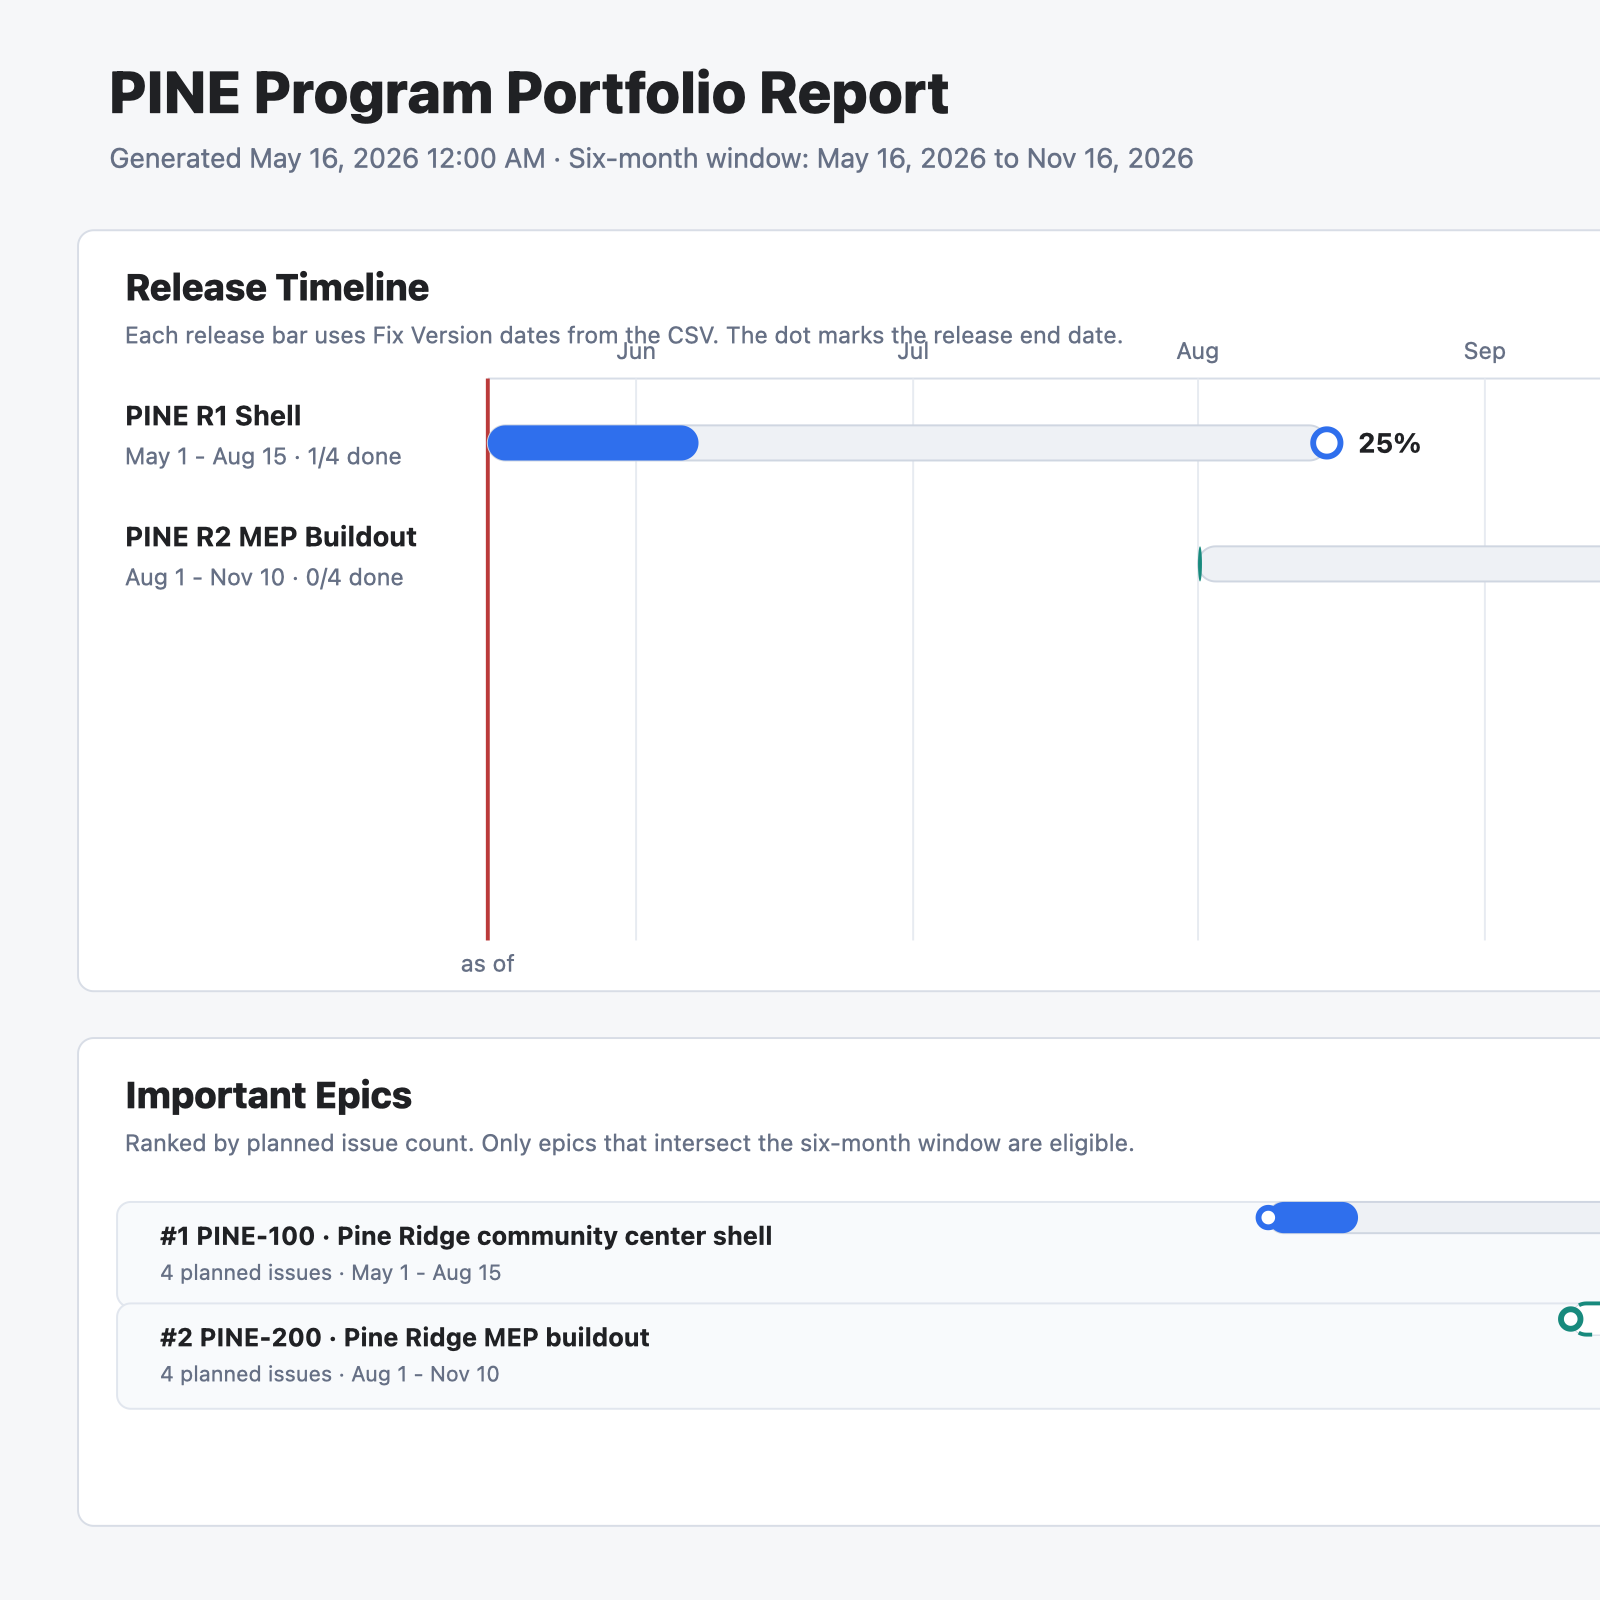
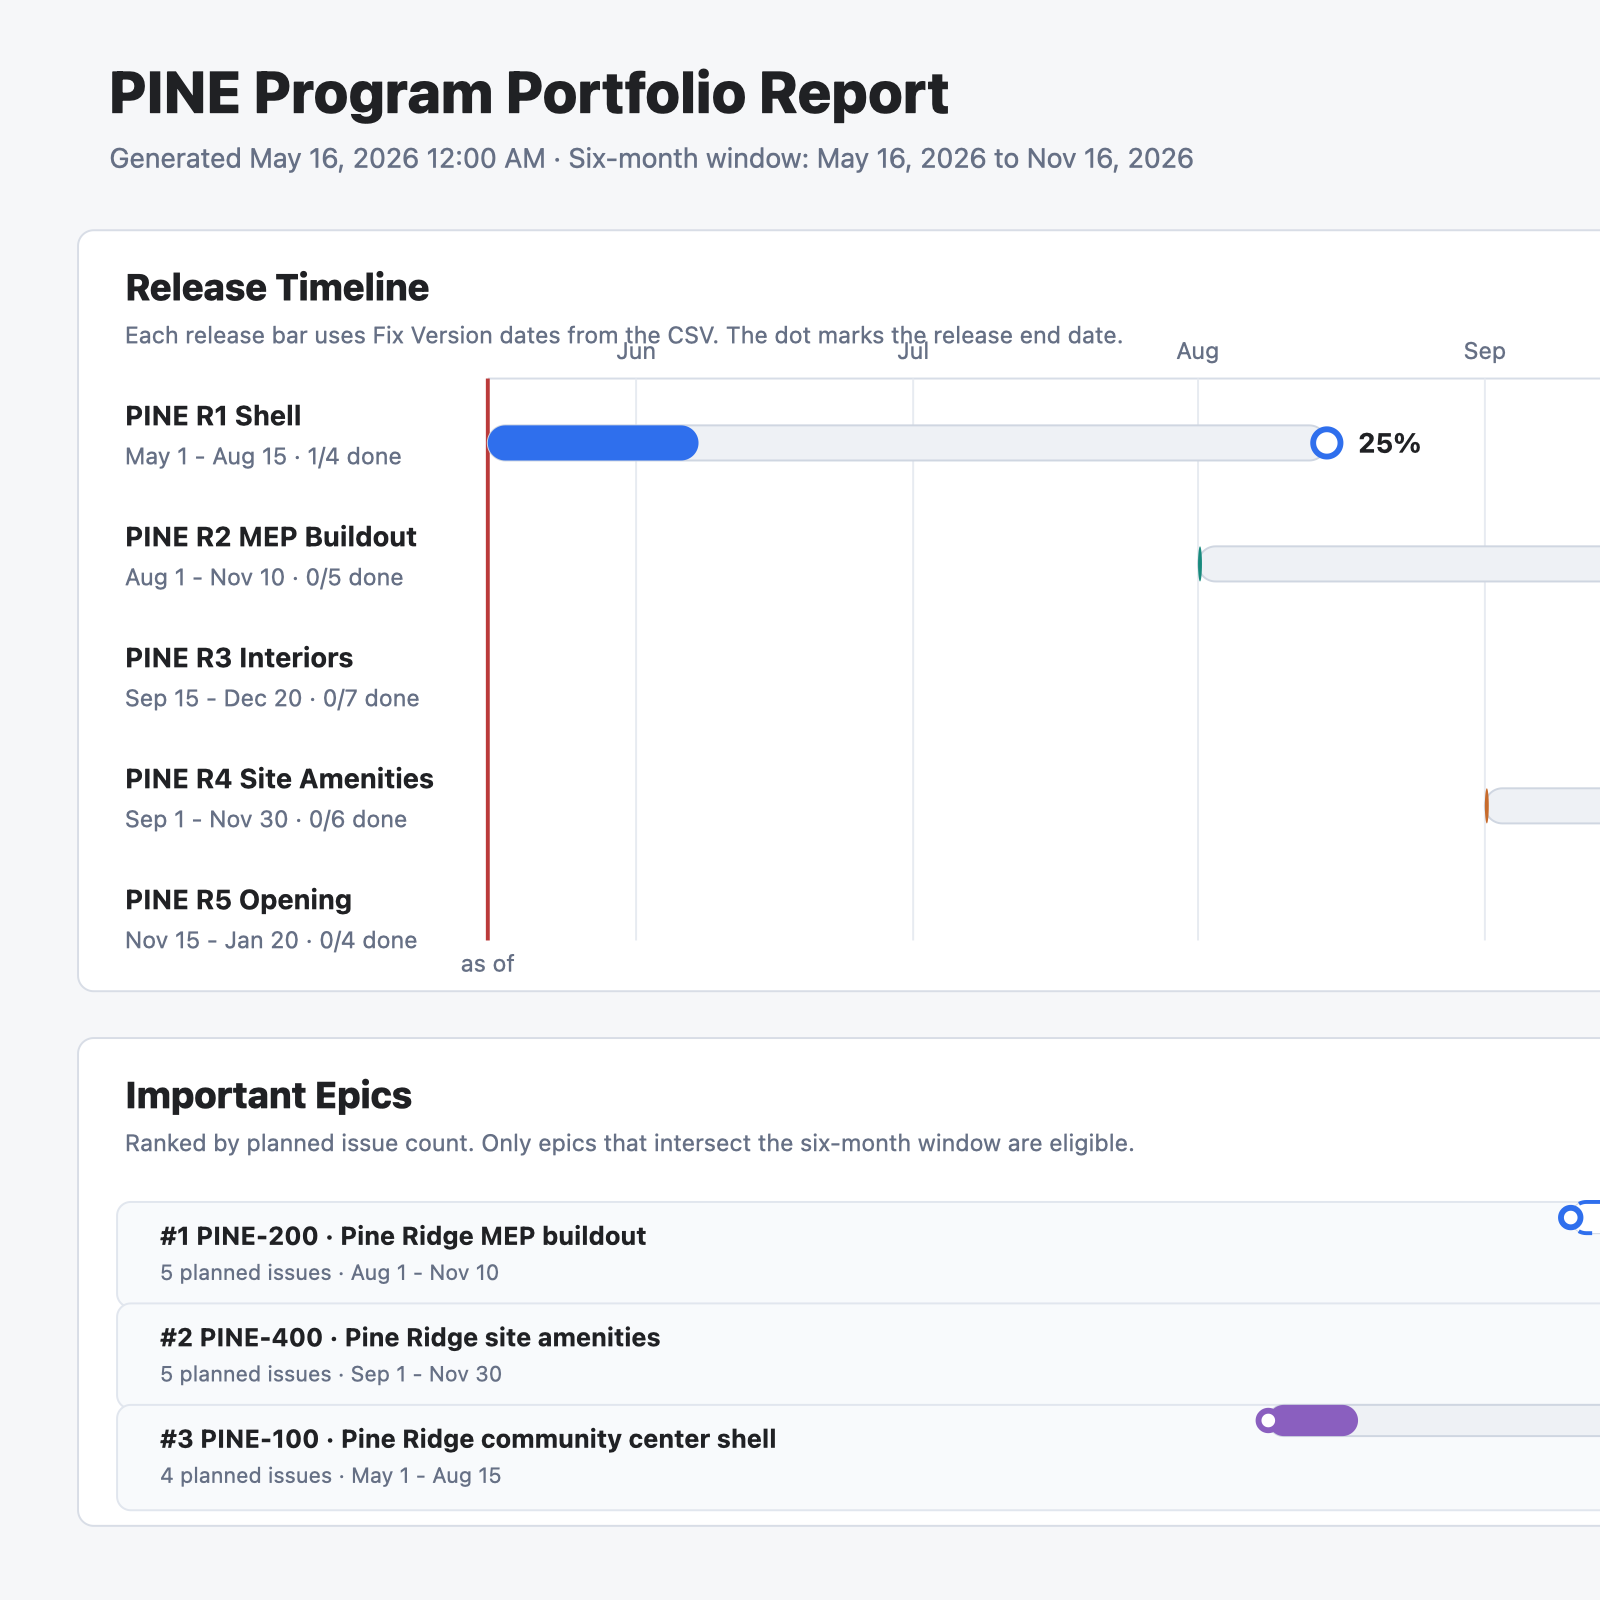
feat: expand construction sample data

diff --git a/docs/CLI_USAGE.md b/docs/CLI_USAGE.md
@@ -105,9 +105,9 @@ Example output:
 
 ```text
 Projects:
-- MAP (14 issues)
-- OAK (14 issues)
-- PINE (10 issues)
+- MAP (22 issues)
+- OAK (22 issues)
+- PINE (31 issues)
 ```
 
 This means the CSV has three project choices: `MAP`, `OAK`, and `PINE`.
